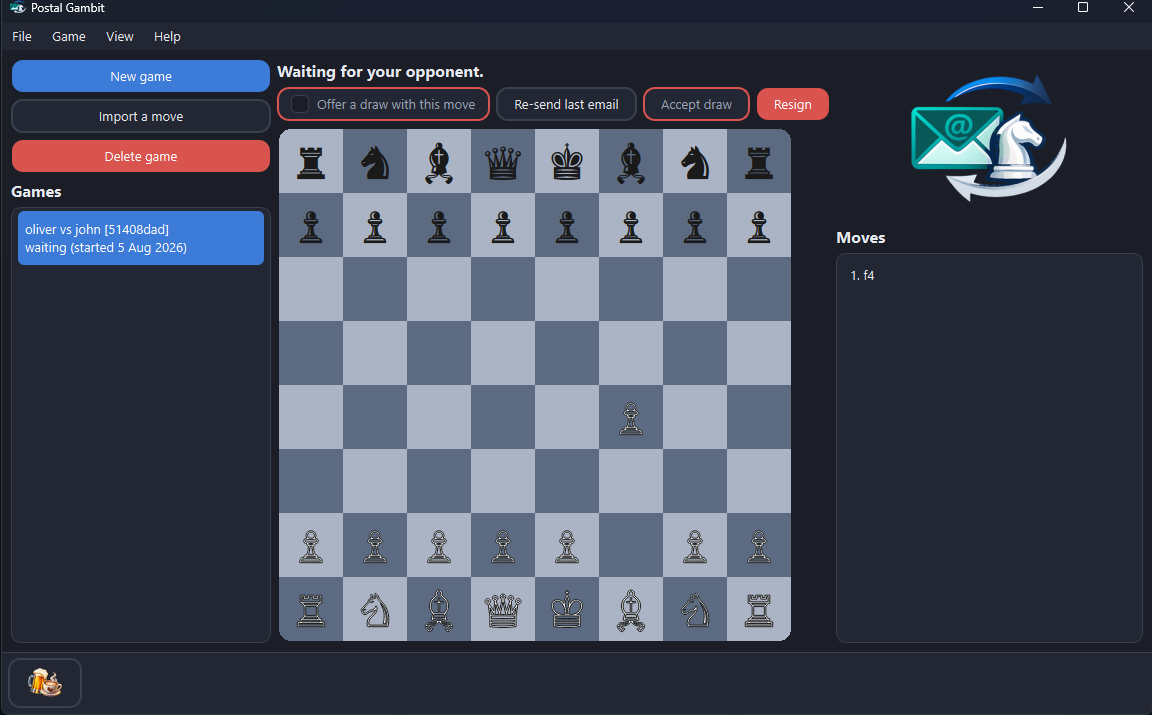
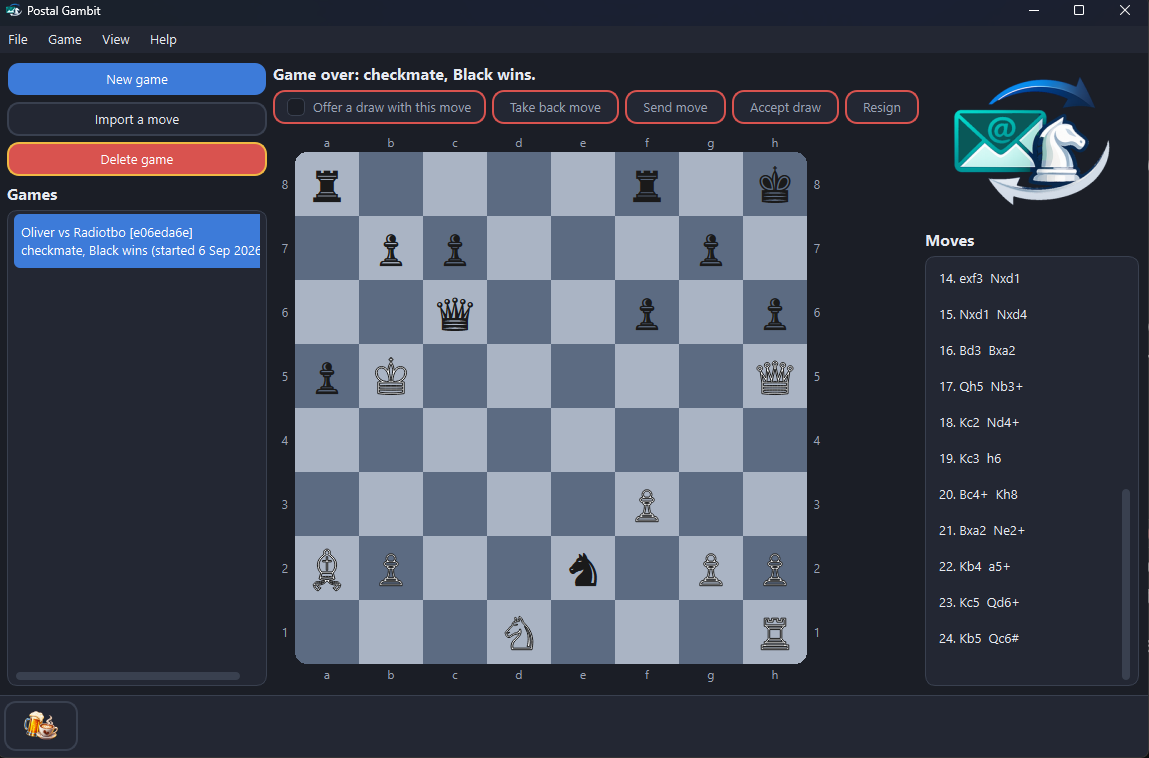
Refresh the site screenshot for the new board and buttons
The shot now carries the file letters and rank numbers round the board and the Take back move and Send move pair. The alt text and caption describe what is in it, including that the game shown has ended, so the in-game actions are greyed.

diff --git a/docs/index.html b/docs/index.html
@@ -103,9 +103,10 @@
     <section class="shot">
         <div class="shot-frame">
             <img src="screenshots/main.png"
-                 alt="Postal Gambit in the dark theme: the game list on the left, the board mid-game with White's f4 played, the move history and app badge on the right, plus the donate button on the strip along the foot of the window."/>
+                 alt="Postal Gambit in the dark theme: the game list on the left, the board in the middle with file letters and rank numbers round all four edges, the move history and app badge on the right, plus the donate button on the strip along the foot of the window. The game has ended in checkmate, so Take back move, Send move, Accept draw and Resign are all greyed."/>
         </div>
-        <p class="shot-cap">The game list, the board and the move history, in the dark theme.</p>
+        <p class="shot-cap">The game list, the board with its coordinates and the move history, in
+            the dark theme.</p>
     </section>
 
     <section class="section" id="how">
